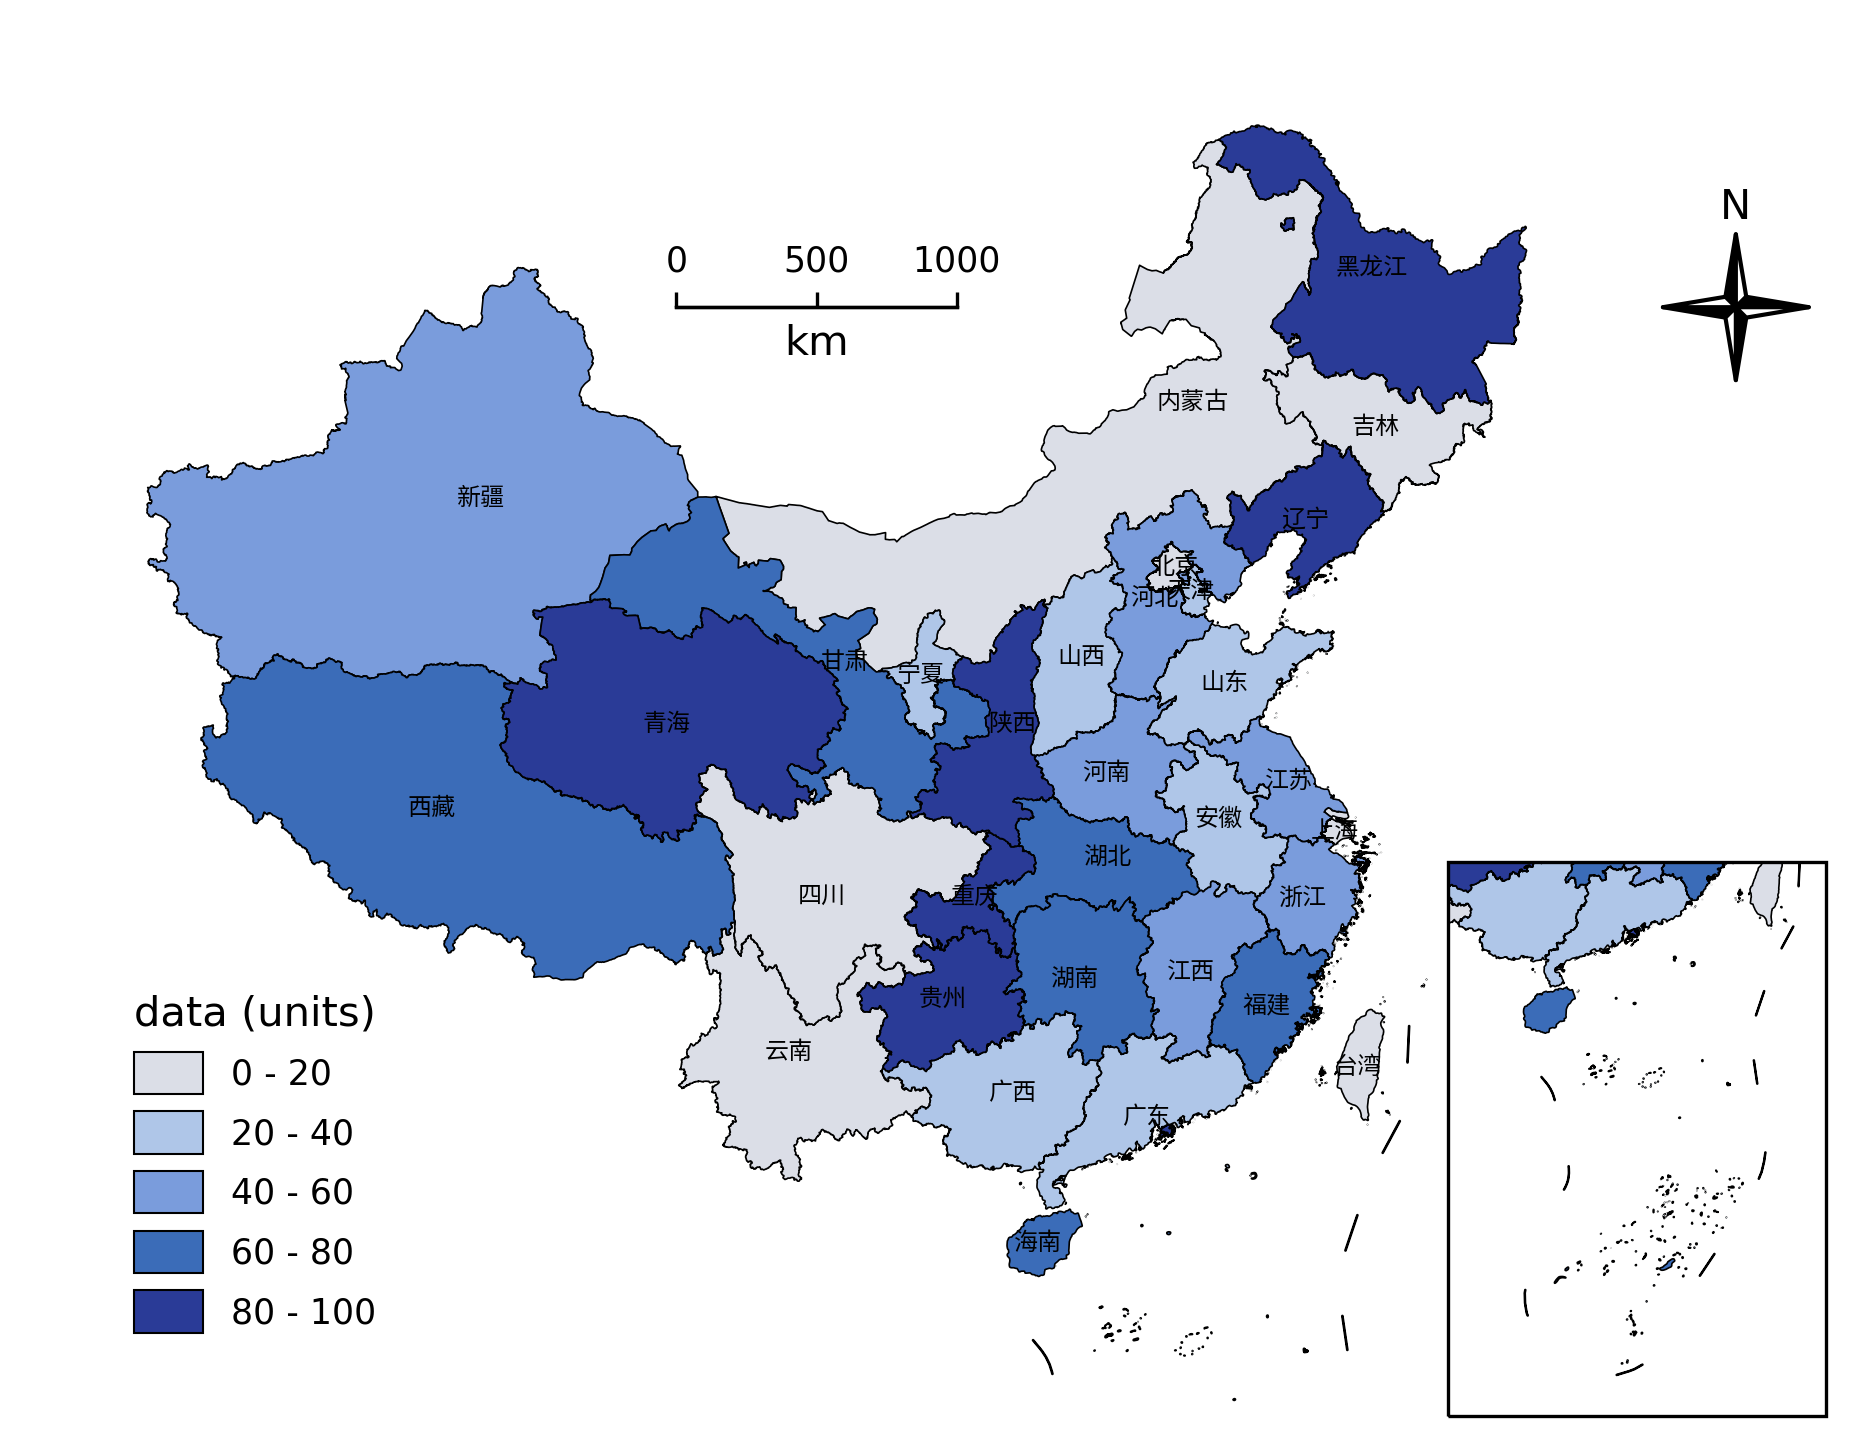
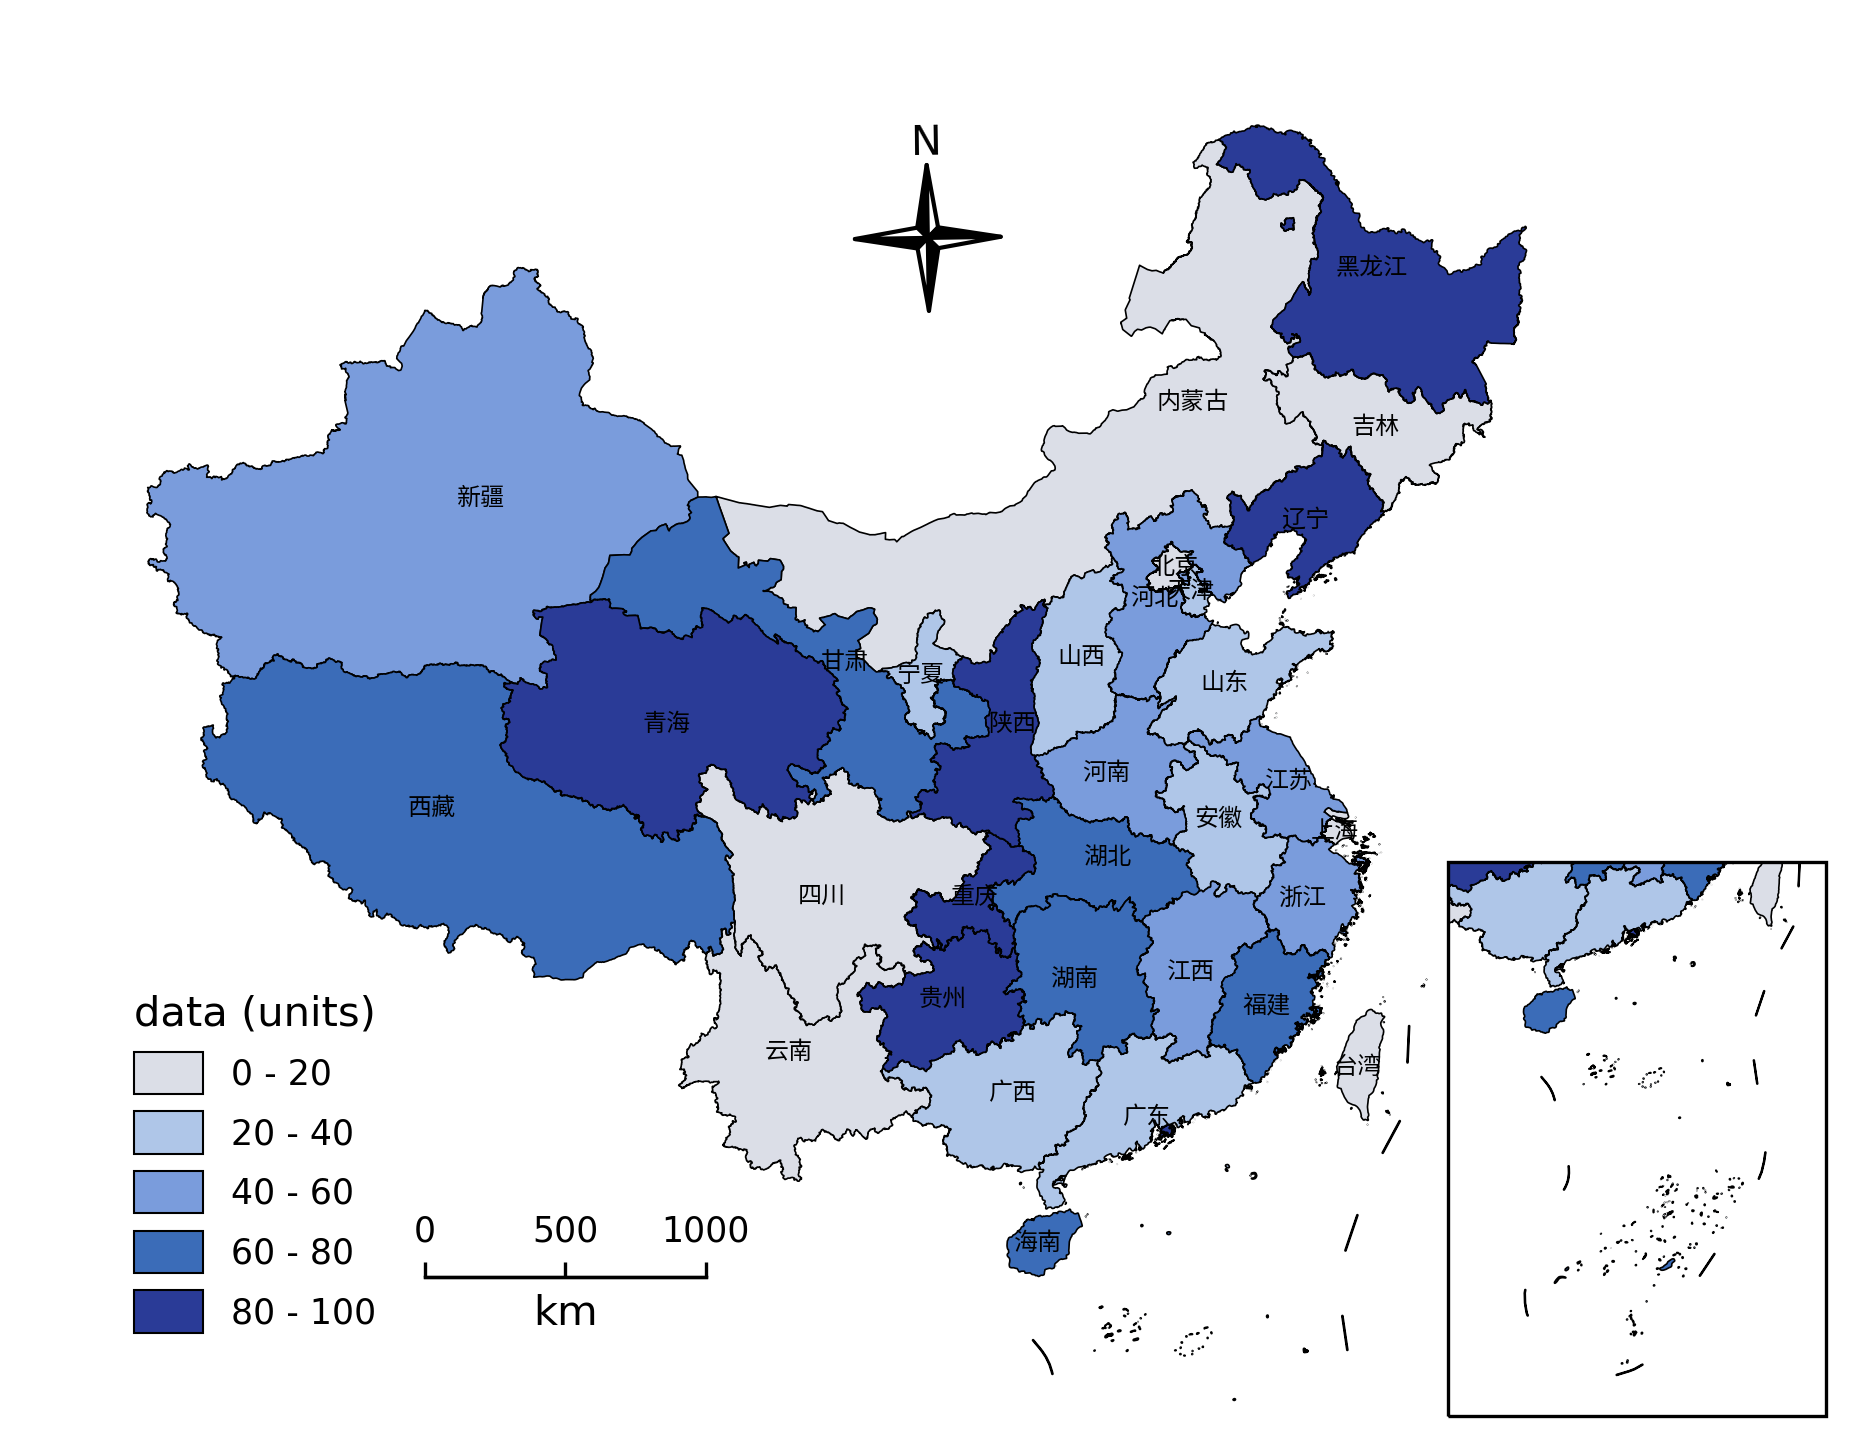
Add angle argument for add_compass function

diff --git a/frykit/plot.py b/frykit/plot.py
@@ -30,37 +30,36 @@ import frykit.shp as fshp
 from frykit import DATA_DIRPATH
 
 # 当polygon的引用计数为零时, 弱引用会自动清理缓存.
-_key_to_polygon_cache = WeakValueDictionary()
-_key_to_transformed_cache = WeakKeyDictionary()
-
-_transform_geometry = None
+_key_to_polygon = WeakValueDictionary()
+_key_to_transformed_polygon = WeakKeyDictionary()
+_transform_func = None
 
 def enable_fast_transform():
     '''启用快速坐标变换. 可能在地图边界产生错误的连线.'''
-    global _transform_geometry
-    _transform_geometry = fshp.transform_geometry
-    _key_to_transformed_cache.clear()
+    global _transform_func
+    _transform_func = fshp.transform_geometry
+    _key_to_transformed_polygon.clear()
 
 def disable_fast_transform():
     '''关闭快速坐标变换. 变换结果更正确, 但速度可能较慢.'''
-    global _transform_geometry
-    def _transform_geometry(geom, crs_from, crs_to):
+    global _transform_func
+    def _transform_func(geom, crs_from, crs_to):
         return crs_to.project_geometry(geom, crs_from)
-    _key_to_transformed_cache.clear()
+    _key_to_transformed_polygon.clear()
 
 enable_fast_transform()
 
-def _cached_transform(polygon, crs_from, crs_to):
-    '''调用_transform_geometry并缓存结果.'''
+def _cached_transform_func(polygon, crs_from, crs_to):
+    '''调用_transform_func并缓存结果.'''
     if crs_from == crs_to:
         return polygon
 
     key = _GeomKey(polygon)
-    _key_to_polygon_cache.setdefault(key, polygon)
-    mapping = _key_to_transformed_cache.setdefault(key, {})
+    _key_to_polygon.setdefault(key, polygon)
+    mapping = _key_to_transformed_polygon.setdefault(key, {})
     value = mapping.get(crs_to)
     if value is None:
-        value = _transform_geometry(polygon, crs_from, crs_to)
+        value = _transform_func(polygon, crs_from, crs_to)
         mapping[crs_to] = value
 
     return value
@@ -99,19 +98,19 @@ def add_polygons(ax, polygons, crs=None, **kwargs):
     if isinstance(ax, GeoAxes):
         crs = ccrs.PlateCarree() if crs is None else crs
         trans = ax.projection._as_mpl_transform(ax)
-        to = lambda x: fshp.polygon_to_path(
-            _cached_transform(x, crs, ax.projection)
+        func = lambda x: fshp.polygon_to_path(
+            _cached_transform_func(x, crs, ax.projection)
         )
     elif isinstance(ax, Axes):
         if crs is not None:
             raise ValueError('ax是Axes时crs只能为None')
         trans = ax.transData
-        to = fshp.polygon_to_path
+        func = fshp.polygon_to_path
     else:
         raise ValueError('ax只能是Axes或GeoAxes')
 
     # PathCollection比PathPatch更快
-    paths = [to(polygon) for polygon in polygons]
+    paths = [func(polygon) for polygon in polygons]
     pc = PathCollection(paths, transform=trans, **kwargs)
     ax.add_collection(pc)
 
@@ -187,7 +186,7 @@ def clip_by_polygon(artist, polygon, crs=None):
     if isinstance(ax, GeoAxes):
         trans = ax.projection._as_mpl_transform(ax)
         crs = ccrs.PlateCarree() if crs is None else crs
-        polygon = _cached_transform(polygon, crs, ax.projection)
+        polygon = _cached_transform_func(polygon, crs, ax.projection)
         boundary = _get_boundary(ax)
         polygon = polygon & boundary
     elif isinstance(ax, Axes):
@@ -474,9 +473,14 @@ def clip_by_ocean(artist, resolution='110m'):
     clip_by_polygon(artist, ocean)
 
 def _set_rectangular(
-    ax, extents=None,
-    xticks=None, yticks=None, nx=0, ny=0,
-    xformatter=None, yformatter=None
+    ax,
+    extents=None,
+    xticks=None,
+    yticks=None,
+    nx=0,
+    ny=0,
+    xformatter=None,
+    yformatter=None
 ):
     '''设置矩形投影的GeoAxes的范围和刻度.'''
     # 默认formatter.
@@ -507,9 +511,14 @@ def _set_rectangular(
         ax.set_extent(extents, crs)
 
 def _set_non_rectangular(
-    ax, extents=None,
-    xticks=None, yticks=None, nx=0, ny=0,
-    xformatter=None, yformatter=None
+    ax,
+    extents=None,
+    xticks=None,
+    yticks=None,
+    nx=0,
+    ny=0,
+    xformatter=None,
+    yformatter=None
 ):
     '''设置非矩形投影的GeoAxes的范围和刻度.'''
     # 默认formatter.
@@ -549,7 +558,7 @@ def _set_non_rectangular(
                 continue
             lon = np.full_like(lat, xtick)
             line = sgeom.LineString(np.column_stack([lon, lat]))
-            line = _transform_geometry(line, crs, ax.projection)
+            line = _transform_func(line, crs, ax.projection)
             point = bottom_axis.intersection(line)
             if isinstance(point, sgeom.Point) and not point.is_empty:
                 bottom_ticklocs.append(point.x)
@@ -582,7 +591,7 @@ def _set_non_rectangular(
                 continue
             lat = np.full_like(lon, ytick)
             line = sgeom.LineString(np.column_stack([lon, lat]))
-            line = _transform_geometry(line, crs, ax.projection)
+            line = _transform_func(line, crs, ax.projection)
             point = left_axis.intersection(line)
             if isinstance(point, sgeom.Point) and not point.is_empty:
                 left_ticklocs.append(point.y)
@@ -604,9 +613,14 @@ def _set_non_rectangular(
             tick.label1.set_alpha(False)
 
 def set_extent_and_ticks(
-    ax, extents=None,
-    xticks=None, yticks=None, nx=0, ny=0,
-    xformatter=None, yformatter=None
+    ax,
+    extents=None,
+    xticks=None,
+    yticks=None,
+    nx=0,
+    ny=0,
+    xformatter=None,
+    yformatter=None
 ):
     '''
     设置GeoAxes的范围和刻度.
@@ -658,9 +672,13 @@ def _create_kwargs(kwargs):
     return {} if kwargs is None else kwargs.copy()
 
 def add_quiver_legend(
-    Q, U, units='m/s',
-    width=0.15, height=0.15, loc='bottom right',
-    rect_kwargs=None, key_kwargs=None
+    Q, U,
+    units='m/s',
+    width=0.15,
+    height=0.15,
+    loc='bottom right',
+    rect_kwargs=None,
+    key_kwargs=None
 ):
     '''
     为Axes.quiver的结果添加图例.
@@ -749,27 +767,34 @@ def add_quiver_legend(
     # 再将qk调整至patch的中心.
     fontsize = qk.text.get_fontsize() / 72
     dy = (qk._labelsep_inches + fontsize) / 2
-    transform = mtransforms.offset_copy(ax.transAxes, ax.figure, 0, dy)
+    trans = mtransforms.offset_copy(ax.transAxes, ax.figure, 0, dy)
     qk._set_transform = lambda: None  # 无效类方法.
-    qk.set_transform(transform)
+    qk.set_transform(trans)
 
     return rect, qk
 
-# TODO: 添加rotation参数.
 def add_compass(
-    ax, x, y, size=20, style='arrow',
-    path_kwargs=None, text_kwargs=None
+    ax, x, y,
+    angle=None,
+    size=20,
+    style='arrow',
+    path_kwargs=None,
+    text_kwargs=None
 ):
     '''
     向Axes添加指北针.
 
     Parameters
     ----------
-    ax : Axes
+    ax : Axes or GeoAxes
         目标Axes.
 
     x, y : float
         指北针的横纵坐标. 基于axes坐标系.
+
+    angle : float
+        指北针的方向, 从x轴逆时针方向算起, 单位为度.
+        默认为None, 当ax是Axes时取angle=90, 当ax是GeoAxes时会自动计算角度.
 
     size : float, optional
         指北针的大小, 单位为点. 默认为20.
@@ -811,28 +836,44 @@ def add_compass(
     if 'fontsize' not in text_kwargs and 'size' not in text_kwargs:
         text_kwargs['fontsize'] = size / 1.5
 
-    head = size / 72
-    offset = mtransforms.ScaledTranslation(x, y, ax.transAxes)
-    trans = ax.figure.dpi_scale_trans + offset
+    # 计算(lon, lat)到(lon, lat + 1)的角度.
+    # 当(x, y)超出Axes范围时会计算出无意义的角度.
+    if angle is None:
+        if isinstance(ax, GeoAxes):
+            crs = ccrs.PlateCarree()
+            axes_to_data = ax.transAxes - ax.transData
+            x0, y0 = axes_to_data.transform((x, y))
+            lon0, lat0 = crs.transform_point(x0, y0, ax.projection)
+            lon1, lat1 = lon0, min(lat0 + 1, 90)
+            x1, y1 = ax.projection.transform_point(lon1, lat1, crs)
+            angle = np.rad2deg(np.arctan2(y1 - y0, x1 - x0))
+        else:
+            angle = 90
 
-    # 指北针的大小基于物理坐标系, 位置基于axes坐标系.
+    # 指北针的大小基于物理坐标系, 旋转基于data坐标系, 平移基于axes坐标系.
+    rotation = mtransforms.Affine2D().rotate_deg(angle)
+    translation = mtransforms.ScaledTranslation(x, y, ax.transAxes)
+    trans = ax.figure.dpi_scale_trans + rotation + translation
+
+    # 用Path画出指北针箭头.
+    head = size / 72
     if style == 'arrow':
         width = axis = head * 2 / 3
-        left_verts = [(0, 0), (-width / 2, axis - head), (0, axis), (0, 0)]
-        right_verts = [(0, 0), (0, axis), (width / 2, axis - head), (0, 0)]
-        paths = [mPath(left_verts), mPath(right_verts)]
+        verts1 = [(0, 0), (axis, 0), (axis - head, width / 2), (0, 0)]
+        verts2 = [(0, 0), (axis - head, -width / 2), (axis, 0), (0, 0)]
+        paths = [mPath(verts1), mPath(verts2)]
     elif style == 'star':
         width = head / 3
         axis = head + width / 2
-        left_verts = [(0, 0), (0, axis), (-width / 2, axis - head), (0, 0)]
-        right_verts = [(0, 0), (width / 2, axis - head), (0, axis), (0, 0)]
-        left_path = mPath(left_verts)
-        right_path = mPath(right_verts)
+        verts1 = [(0, 0), (axis, 0), (axis - head, width / 2), (0, 0)]
+        verts2 = [(0, 0), (axis - head, -width / 2), (axis, 0), (0, 0)]
+        path1 = mPath(verts1)
+        path2 = mPath(verts2)
         paths = []
         for deg in range(0, 360, 90):
-            rotate = mtransforms.Affine2D().rotate_deg(deg)
-            paths.append(left_path.transformed(rotate))
-            paths.append(right_path.transformed(rotate))
+            rotation = mtransforms.Affine2D().rotate_deg(deg)
+            paths.append(path1.transformed(rotation))
+            paths.append(path2.transformed(rotation))
     else:
         raise ValueError('style参数错误')
 
@@ -841,10 +882,13 @@ def add_compass(
     ax.add_collection(pc)
 
     # 添加N字.
-    pad = head / 10
+    pad = head / 3
     text = ax.text(
-        0, axis + pad, 'N', ha='center', va='bottom',
-        transform=trans, **text_kwargs
+        axis + pad, 0, 'N',
+        ha='center', va='center',
+        rotation=angle - 90,
+        transform=trans,
+        **text_kwargs,
     )
 
     return pc, text
@@ -874,6 +918,9 @@ def add_map_scale(ax, x, y, length=1000, units='km'):
     scale : Axes
         表示比例尺的Axes对象.
     '''
+    if not isinstance(ax, GeoAxes):
+        raise ValueError("ax只能是GeoAxes")
+
     if units == 'km':
         unit = 1000
     elif units == 'm':
@@ -896,7 +943,7 @@ def add_map_scale(ax, x, y, length=1000, units='km'):
     dr = geod.inv(lon0, lat0, lon1, lat1)[2] / unit
     dxdr = dx / dr
 
-    # axes坐标系的位置转为data坐标.
+    # axes坐标转为data坐标.
     axes_to_data = ax.transAxes - ax.transData
     x, y = axes_to_data.transform((x, y))
     width = length * dxdr

diff --git a/example/fill.py b/example/fill.py
@@ -63,8 +63,8 @@ ax1.legend(
 )
 
 # 添加指北针和比例尺.
-fplt.add_compass(ax1, 0.95, 0.8, size=15, style='star')
-scale = fplt.add_map_scale(ax1, 0.36, 0.8, length=1000)
+fplt.add_compass(ax1, 0.5, 0.85, size=15, style='star')
+scale = fplt.add_map_scale(ax1, 0.22, 0.1, length=1000)
 scale.set_xticks([0, 500, 1000])
 
 # 简化名称.

diff --git a/README.md b/README.md
@@ -107,16 +107,7 @@ enable_fast_transform()
 disable_fast_transform()
 ```
 
-`add_cn_xxx` 系列函数会通过缓存节省读取国界和省界数据的时间开销。`add_polygon`、`add_polygons` 和 `clip_by_xxx` 系列函数会通过缓存节省多边形坐标变换的时间开销。
-
-```Python
-# 维持对多边形对象的引用.
-polygon = sgeom.polygon(...)
-
-# 第二次调用耗时更短.
-fplt.add_polygon(ax, polygon)
-fplt.add_polygon(ax, polygon)
-```
+`add_cn_xxx` 系列函数在多次调用时会通过缓存节省读取国界和省界数据的时间开销。如果能维持对多边形对象的引用，`add_polygon`、`add_polygons` 和 `clip_by_xxx` 系列函数在多次调用时会通过缓存节省多边形坐标变换的时间开销。
 
 ### 添加指北针和比例尺
 
@@ -126,7 +117,7 @@ scale = fplt.add_map_scale(ax1, 0.36, 0.8, length=1000)
 scale.set_xticks([0, 500, 1000])
 ```
 
-指北针目前只是单纯指向图片上方，并不能真正指向所在地点的北方。
+指北针会自动指向所在位置处的北向，也可以通过 `angle` 参数手动指定角度。
 
 比例尺的长度通过 `GeoAxes` 中心处单位长度和实际距离的比值计算得到。比例尺本身由一个压扁了的 `Axes` 模拟，所以可通过 `set_xticks` 等方法修改样式。
 
